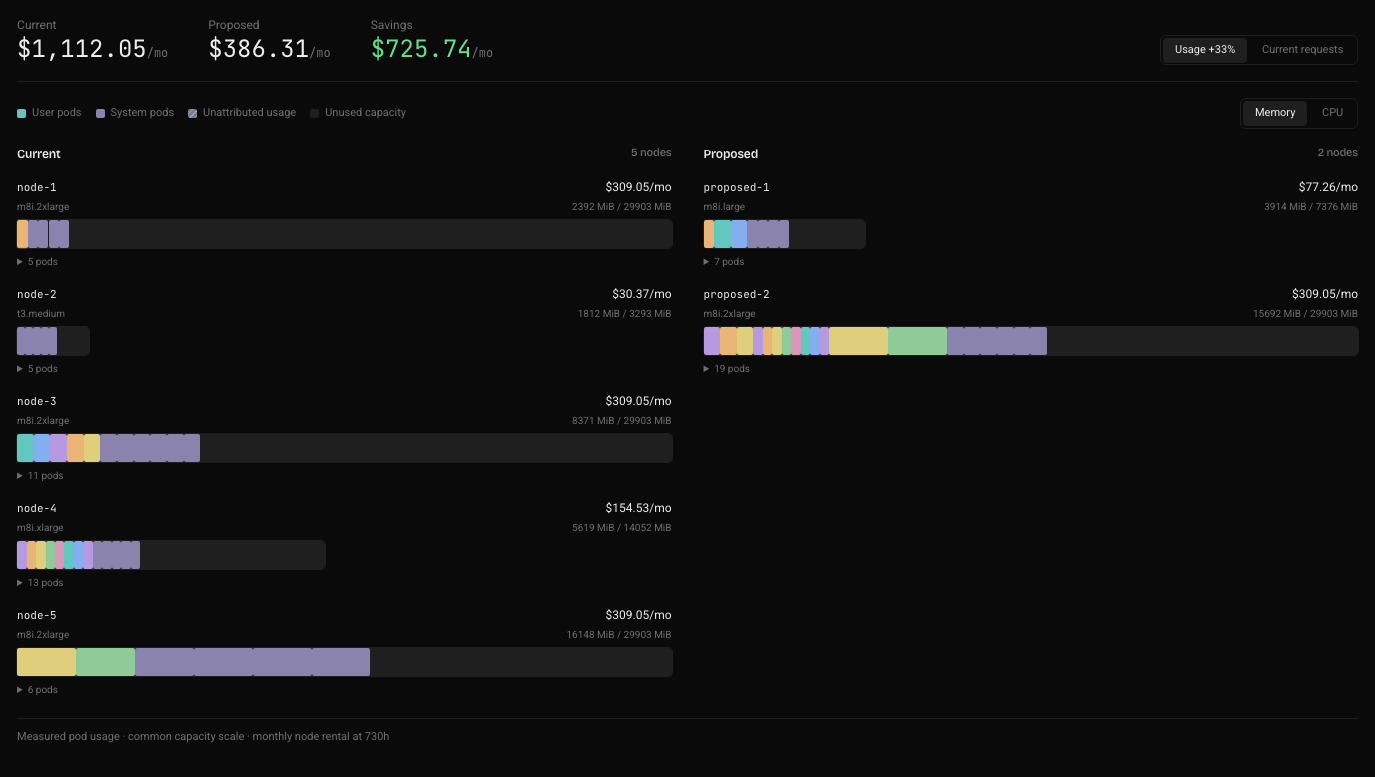
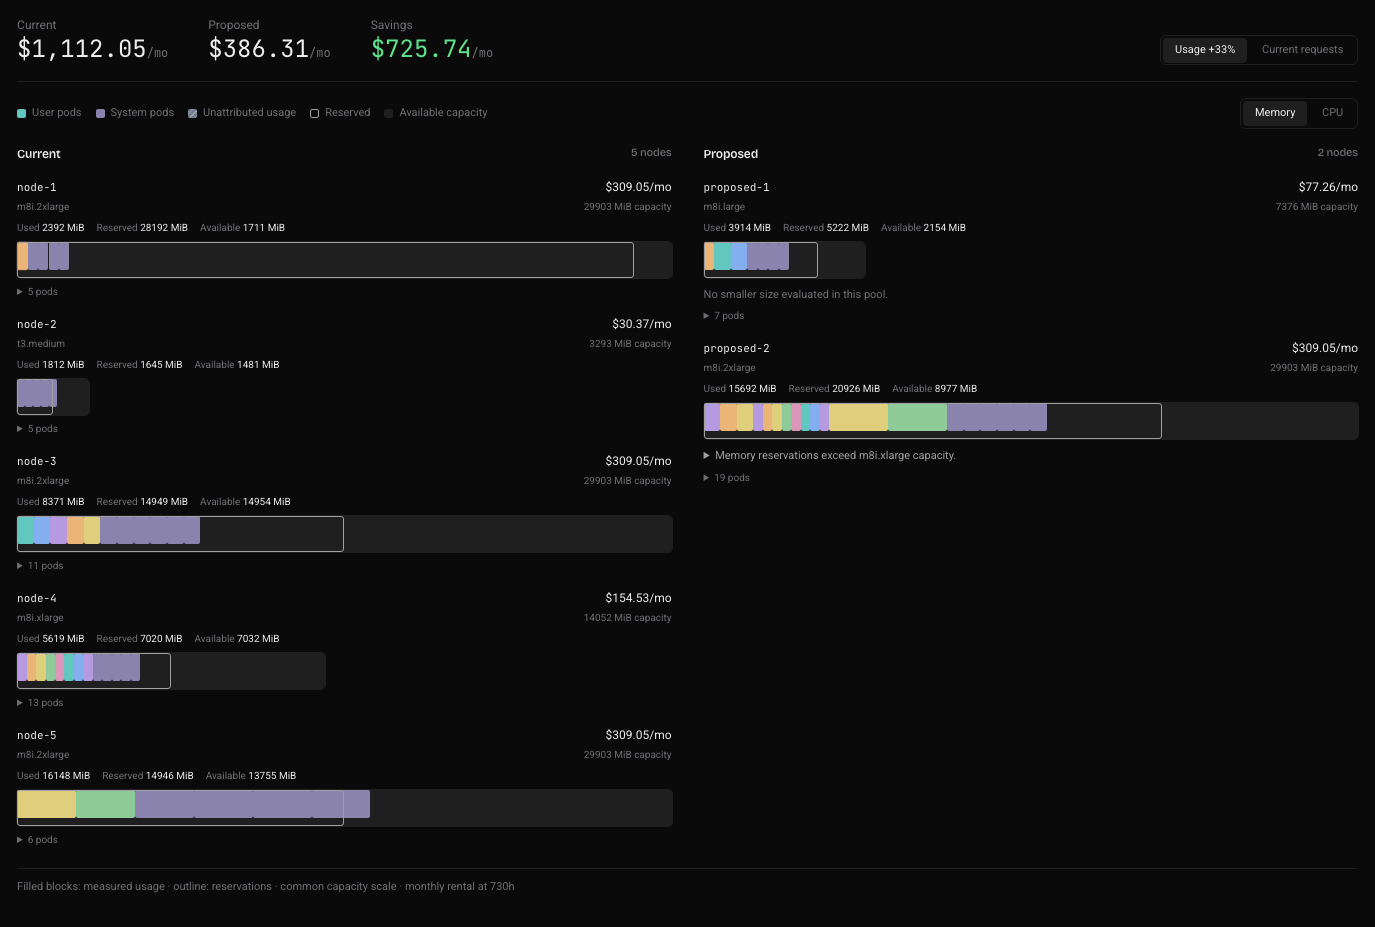
Document and test server reservations and sizing explanations

diff --git a/resource/frontend/tests/k8s-cost-story.spec.ts b/resource/frontend/tests/k8s-cost-story.spec.ts
@@ -17,7 +17,7 @@ async function openCosts(page: Page, variant: 'normal' | 'unpriced' | 'incomplet
       isSystem: j >= users[i], isDaemonSet: j >= users[i], phase: 'Running', ready: true, restartCount: 0,
       realCpuMilli: variant === 'incomplete' && i === 0 && j === 0 ? null : 10,
       realMemMib: variant === 'incomplete' && i === 0 && j === 0 ? null : Math.floor(memory[i] / counts[i]) + (j === 0 ? memory[i] % counts[i] : 0),
-      requestedCpuMilli: 100, requestedMemMib: 2048,
+      requestedCpuMilli: 100, requestedMemMib: i === 0 ? j === 0 ? 20000 : 2048 : Math.floor(capacities[i] / counts[i] / 2),
     })),
   }));
   const all = nodeBreakdown.flatMap(n => n.pods.map(p => ({
@@ -26,8 +26,8 @@ async function openCosts(page: Page, variant: 'normal' | 'unpriced' | 'incomplet
   })));
   const work = all.filter(p => !p.isSystem);
   const placementNodes = [
-    { id: 'proposed-1', instanceType: 'm8i.large', hourly: .10584, cpuCapacityMilli: 1930, memoryCapacityMib: 7376, pods: [...work.slice(0, 3), ...all.filter(p => p.sourceNode === 'node-1' && p.isSystem)] },
-    { id: 'proposed-2', instanceType: 'm8i.2xlarge', hourly: .42336, cpuCapacityMilli: 7910, memoryCapacityMib: 29903, pods: [...work.slice(3), ...all.filter(p => p.sourceNode === 'node-3' && p.isSystem)] },
+    { id: 'proposed-1', instanceType: 'm8i.large', hourly: .10584, cpuCapacityMilli: 1930, memoryCapacityMib: 7376, pods: [...work.slice(0, 3), ...all.filter(p => p.sourceNode === 'node-1' && p.isSystem)], sizeChecks: [] },
+    { id: 'proposed-2', instanceType: 'm8i.2xlarge', hourly: .42336, cpuCapacityMilli: 7910, memoryCapacityMib: 29903, pods: [...work.slice(3), ...all.filter(p => p.sourceNode === 'node-3' && p.isSystem)], sizeChecks: [{ instanceType: 'm8i.xlarge', blockers: [{ kind: 'memory', required: [...work.slice(3), ...all.filter(p => p.sourceNode === 'node-3' && p.isSystem)].reduce((sum, p) => sum + p.reservedMemMib, 0), capacity: 14052 }] }] },
   ];
   const projection = {
     savingsMonthly: 725.74, floorMonthly: 386.31,
@@ -36,7 +36,8 @@ async function openCosts(page: Page, variant: 'normal' | 'unpriced' | 'incomplet
   };
   const requested = { ...projection, savingsMonthly: 0, floorMonthly: 1112.05, placementNodes: nodeBreakdown.map((n, i) => ({
     id: `requested-${i + 1}`, instanceType: n.instanceType, hourly: n.hourly,
-    cpuCapacityMilli: parseInt(n.allocatableCpu), memoryCapacityMib: capacities[i], pods: all.filter(p => p.sourceNode === n.name),
+    cpuCapacityMilli: parseInt(n.allocatableCpu), memoryCapacityMib: capacities[i], pods: all.filter(p => p.sourceNode === n.name).map(p => ({ ...p, reservedCpuMilli: Math.max(p.requestedCpuMilli, p.realCpuMilli ?? 0), reservedMemMib: Math.max(p.requestedMemMib, p.realMemMib ?? 0) })),
+    sizeChecks: i === 0 ? [{ instanceType: 'm8i.xlarge', blockers: [{ kind: 'memory', required: 28192, capacity: 13616 }] }] : [],
   })) };
   const finding = {
     id: 'floor', rule: 'cluster-floor-projection', severity: 'high', category: 'cost',
@@ -124,9 +125,39 @@ test('unknown usage is flagged and is never drawn as a zero-sized measured pod',
   await expect(costs).toContainText('Incomplete projection');
   await expect(costs).not.toContainText('$725.74/mo');
   await expect(costs.locator('[data-node="node-1"]')).toContainText('1 unmeasured');
+  await expect(costs.locator('[data-node="node-1"] .kp-resource-totals')).toContainText('Available unknown');
   await expect(costs.locator('.kp-pod[aria-label^="analytics/pod-1-1:"]')).toHaveCount(0);
   await costs.locator('[data-node="node-1"] summary').click();
   await expect(costs.locator('[data-node="node-1"] .kp-pod-list')).toContainText('unknown');
+});
+
+test('reservations explain an almost empty large server without inflating measured blocks', async ({ page }) => {
+  await openCosts(page);
+  const costs = page.getByRole('region', { name: 'Server costs' });
+  await costs.getByRole('button', { name: 'Current requests', exact: true }).click();
+  const server = costs.locator('[data-node="requested-1"]');
+  await expect(server.locator('.kp-resource-totals')).toHaveText('Used 2392 MiBReserved 28192 MiBAvailable 1711 MiB');
+  const track = (await server.locator('.kp-track').boundingBox())!;
+  const outline = (await server.locator('.kp-reservation-outline').boundingBox())!;
+  expect(outline.width / track.width).toBeCloseTo(28192 / 29903, 3);
+  const pod = server.locator('.kp-pod').first();
+  expect((await pod.boundingBox())!.width / track.width).toBeCloseTo(480 / 29903, 3);
+  await expect(server.locator('.kp-size-reason summary')).toHaveText('Memory reservations exceed m8i.xlarge capacity.');
+  await server.locator('.kp-size-reason summary').click();
+  await expect(server.locator('.kp-size-reason')).toContainText('28192 MiB reserved; 13616 MiB capacity.');
+  await server.locator('.kp-pod-list summary').click();
+  await expect(server.locator('.kp-pod-list')).toContainText('480 MiB used · 20000 MiB reserved');
+  await costs.getByRole('button', { name: 'CPU', exact: true }).click();
+  await expect(server.locator('.kp-resource-totals')).toHaveText('Used 50mReserved 500mAvailable 7410m');
+  // Memory still explains server size when viewing CPU consumption.
+  await expect(server.locator('.kp-size-reason summary')).toContainText('Memory reservations exceed');
+  await costs.getByRole('button', { name: 'Memory', exact: true }).click();
+  await server.locator('.kp-pod-list summary').click();
+  await server.locator('.kp-size-reason summary').click();
+  await costs.screenshot({ path: '/tmp/atk-reservations-requests.png' });
+  await costs.getByRole('button', { name: 'Usage +33%', exact: true }).click();
+  await expect(costs.locator('[data-node="proposed-1"]')).toContainText('No smaller size evaluated in this pool.');
+  await expect(costs).not.toContainText('Unused capacity');
 });
 
 test('old audits show current nodes and request a new scan rather than inventing destinations', async ({ page }) => {

diff --git a/tests/backend/test_k8s_floor_projection.py b/tests/backend/test_k8s_floor_projection.py
@@ -306,3 +306,57 @@ def test_oversized_per_node_services_do_not_produce_a_zero_cost_cluster():
     assert ev['placementComplete'] is False
     assert ev['unplaceablePods'] == ['kube-system/helper']
     assert ev['floorMonthly'] is None
+
+
+def test_size_reason_exposes_memory_reservation_hidden_by_low_usage():
+    nodes = [make_node('a', 'm8i.2xlarge', '7900m', '30000Mi', capacity=('8', '32768Mi'))]
+    pods = [make_pod('work', 'notebook', 'a', cpu='100m', mem='20000Mi')]
+    usage = [{'namespace': 'work', 'pod': 'notebook', 'cpuMilli': 10, 'memMib': 1000}]
+    ev = Rule21ClusterFloorProjection().evaluate(bundle(nodes, pods, usage))[0].evidence
+    node = ev['projections']['requests']['placementNodes'][0]
+    assert node['instanceType'] == 'm8i.2xlarge'
+    assert node['pods'][0]['realMemMib'] == 1000
+    assert node['sizeChecks'] == [{
+        'instanceType': 'm8i.xlarge',
+        'blockers': [{'kind': 'memory', 'required': 20000, 'capacity': 13616}],
+    }]
+    assert ev['projections']['rightsized']['placementNodes'][0]['sizeChecks'] == []
+
+
+def test_size_reason_reports_cpu_even_with_little_memory_use_and_includes_services():
+    nodes = [make_node('a', 'm8i.2xlarge', '7900m', '30000Mi', capacity=('8', '32768Mi'))]
+    pods = [make_pod('work', 'notebook', 'a', cpu='3800m', mem='100Mi'),
+            make_pod('kube-system', 'helper', 'a', cpu='200m', mem='100Mi', owner='DaemonSet')]
+    ev = Rule21ClusterFloorProjection().evaluate(bundle(nodes, pods))[0].evidence
+    assert ev['placementNodes'][0]['sizeChecks'][0]['blockers'] == [
+        {'kind': 'cpu', 'required': 4000, 'capacity': 3900},
+    ]
+
+
+def test_size_reason_identifies_pod_with_instance_type_restriction():
+    nodes = [make_node('a', 'm8i.2xlarge', '7900m', '30000Mi', capacity=('8', '32768Mi'))]
+    pods = [make_pod('work', 'pinned', 'a', cpu='100m', mem='100Mi',
+                     selector={'node.kubernetes.io/instance-type': 'm8i.2xlarge'})]
+    ev = Rule21ClusterFloorProjection().evaluate(bundle(nodes, pods))[0].evidence
+    assert ev['placementNodes'][0]['sizeChecks'][0]['blockers'] == [
+        {'kind': 'selector', 'pods': ['work/pinned']},
+    ]
+
+
+def test_size_reason_does_not_compare_to_different_pool_or_unpriced_shapes():
+    nodes = [make_node('a', 'm8i.2xlarge', '7900m', '30000Mi', labels={'pool': 'a'}, capacity=('8', '32768Mi')),
+             make_node('b', 'm8i.xlarge', '3900m', '14000Mi', labels={'pool': 'b'}, capacity=('4', '16384Mi'))]
+    pods = [make_pod('work', n, n, cpu='100m', mem='20000Mi' if n == 'a' else '100Mi', selector={'pool': n}) for n in ['a', 'b']]
+    ev = Rule21ClusterFloorProjection().evaluate(bundle(nodes, pods))[0].evidence
+    checks = ev['placementNodes'][0]['sizeChecks']
+    assert len(checks) == 1
+    assert checks[0]['blockers'] == [{'kind': 'memory', 'required': 20000, 'capacity': 13616}]
+
+
+def test_size_checks_honestly_report_fit_and_scheduling_restrictions():
+    from binpack import NodeGroup, PodReq, placement_size_checks
+    pod = PodReq('work/job', 'work', 100, 100)
+    small = NodeGroup('small', 'm8i.large', 2000, 6000, 0, {}, [])
+    assert placement_size_checks([pod], [small]) == [{'instanceType': 'm8i.large', 'blockers': []}]
+    small.taints = [{'key': 'dedicated', 'value': 'system', 'effect': 'NoSchedule'}]
+    assert placement_size_checks([pod], [small])[0]['blockers'] == [{'kind': 'taint', 'pods': ['work/job']}]

diff --git a/README.md b/README.md
@@ -6,7 +6,7 @@
 
 **A polished, multi-instance administration cockpit for Dataiku DSS: diagnostics, health scoring, cleanup tools, and cost insights in one webapp.**
 
-![Version](https://img.shields.io/badge/version-0.4.841-blue)
+![Version](https://img.shields.io/badge/version-0.4.842-blue)
 ![Dataiku DSS](https://img.shields.io/badge/Dataiku%20DSS-13%2B-2AB1AC)
 ![React](https://img.shields.io/badge/React-19-61DAFB?logo=react&logoColor=white)
 ![TypeScript](https://img.shields.io/badge/TypeScript-5.9-3178C6?logo=typescript&logoColor=white)
@@ -79,9 +79,9 @@ The deepest module — code-env sprawl is usually the #1 health problem on a mat
 
 ### AI Compute
 
-**Container Execs** *(tool)* streams the live container-execution inventory (K8s workloads per project, recipe, webapp). **Docker Images** *(tool)* prunes stale images from ECR/ACR/GAR registries. **CS Templates** *(tool)* migrates code studios between templates. **Model Audit** inventories every LLM connection and model with cost and replacement hints. **K8s Insights** audits your clusters live: a static current/proposed placement comparison shows measured CPU or memory for each pod, per-node rental prices, and reconciled cost totals. Proposed assignments include system services; incomplete sizing is flagged.
+**Container Execs** *(tool)* streams the live container-execution inventory (K8s workloads per project, recipe, webapp). **Docker Images** *(tool)* prunes stale images from ECR/ACR/GAR registries. **CS Templates** *(tool)* migrates code studios between templates. **Model Audit** inventories every LLM connection and model with cost and replacement hints. **K8s Insights** audits your clusters live: a static current/proposed placement comparison shows measured CPU or memory for each pod, per-node rental prices, and reconciled cost totals. Reservation outlines and used/reserved/available figures explain apparently empty servers; expandable sizing checks identify resources or placement restrictions that block smaller sizes. Proposed assignments include system services; incomplete sizing is flagged.
 
-<div align="center"><img src="docs/screenshots/k8s-insights.png" alt="K8s Insights — measured pod usage, calculated placements, and rental prices for current and proposed nodes" width="850" /></div>
+<div align="center"><img src="docs/screenshots/k8s-insights.png" alt="K8s Insights — measured pod usage, reservation outlines, available capacity, and server sizing reasons beside per-node rental prices" width="850" /></div>
 
 <div align="center"><img src="docs/screenshots/llm-audit.png" alt="LLM Model Audit — 82 models with connections, cost and replacement hints" width="850" /></div>
 

diff --git a/CHANGELOG.md b/CHANGELOG.md
@@ -7,6 +7,12 @@ and this project adheres to [Semantic Versioning](https://semver.org/spec/v2.0.0
 
 ## [Unreleased]
 
+## [0.4.842] - 2026-09-11
+
+### Changed
+
+- K8s placement charts distinguish measured usage, resource reservations, and available capacity. Each proposed node explains which resource or placement rule blocks smaller evaluated sizes, with expandable amounts and per-pod reservations; incomplete sizing evidence stays explicit.
+
 ## [0.4.841] - 2026-09-11
 
 ### Changed
